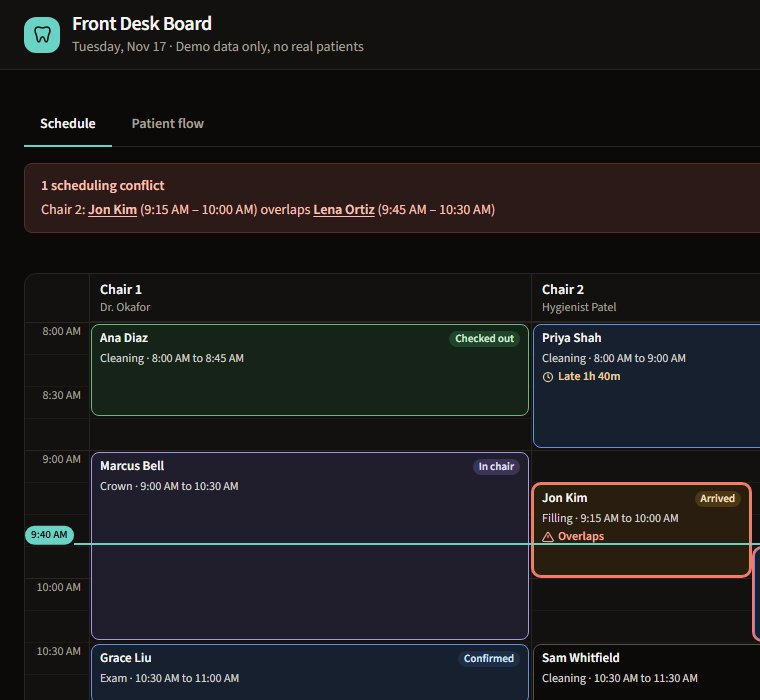
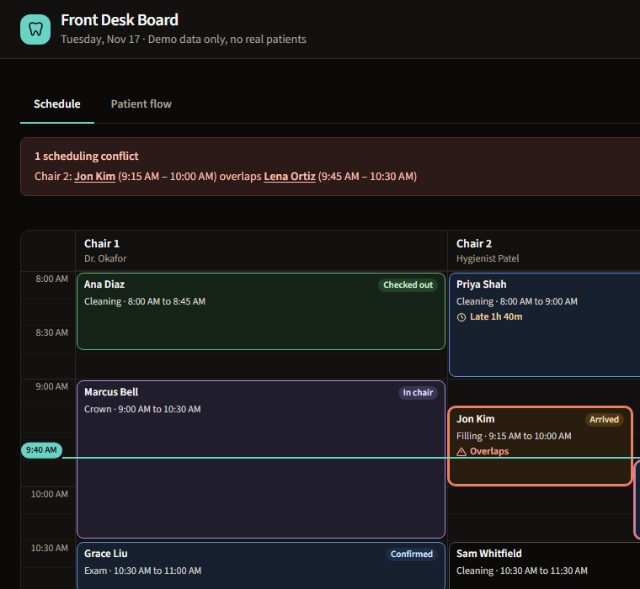
perf: resize Front Desk Board phone crop to 640px
Same framing at 640x589 instead of 760x700, about 37 KB instead of 59 KB,
so phones no longer download an image over 2.2x its shown width.

diff --git a/src/content.ts b/src/content.ts
@@ -155,8 +155,8 @@ export const projects: Project[] = [
       alt: 'Front Desk Board’s schedule in dark mode: chairs as columns, colour-coded visit statuses, a now line at 9:40 AM, and a red banner flagging a double-booking in Chair 2.',
       width: 1200,
       height: 750,
-      mobileWidth: 760,
-      mobileHeight: 700,
+      mobileWidth: 640,
+      mobileHeight: 589,
     },
     pipeline: [],
     decisions: [
